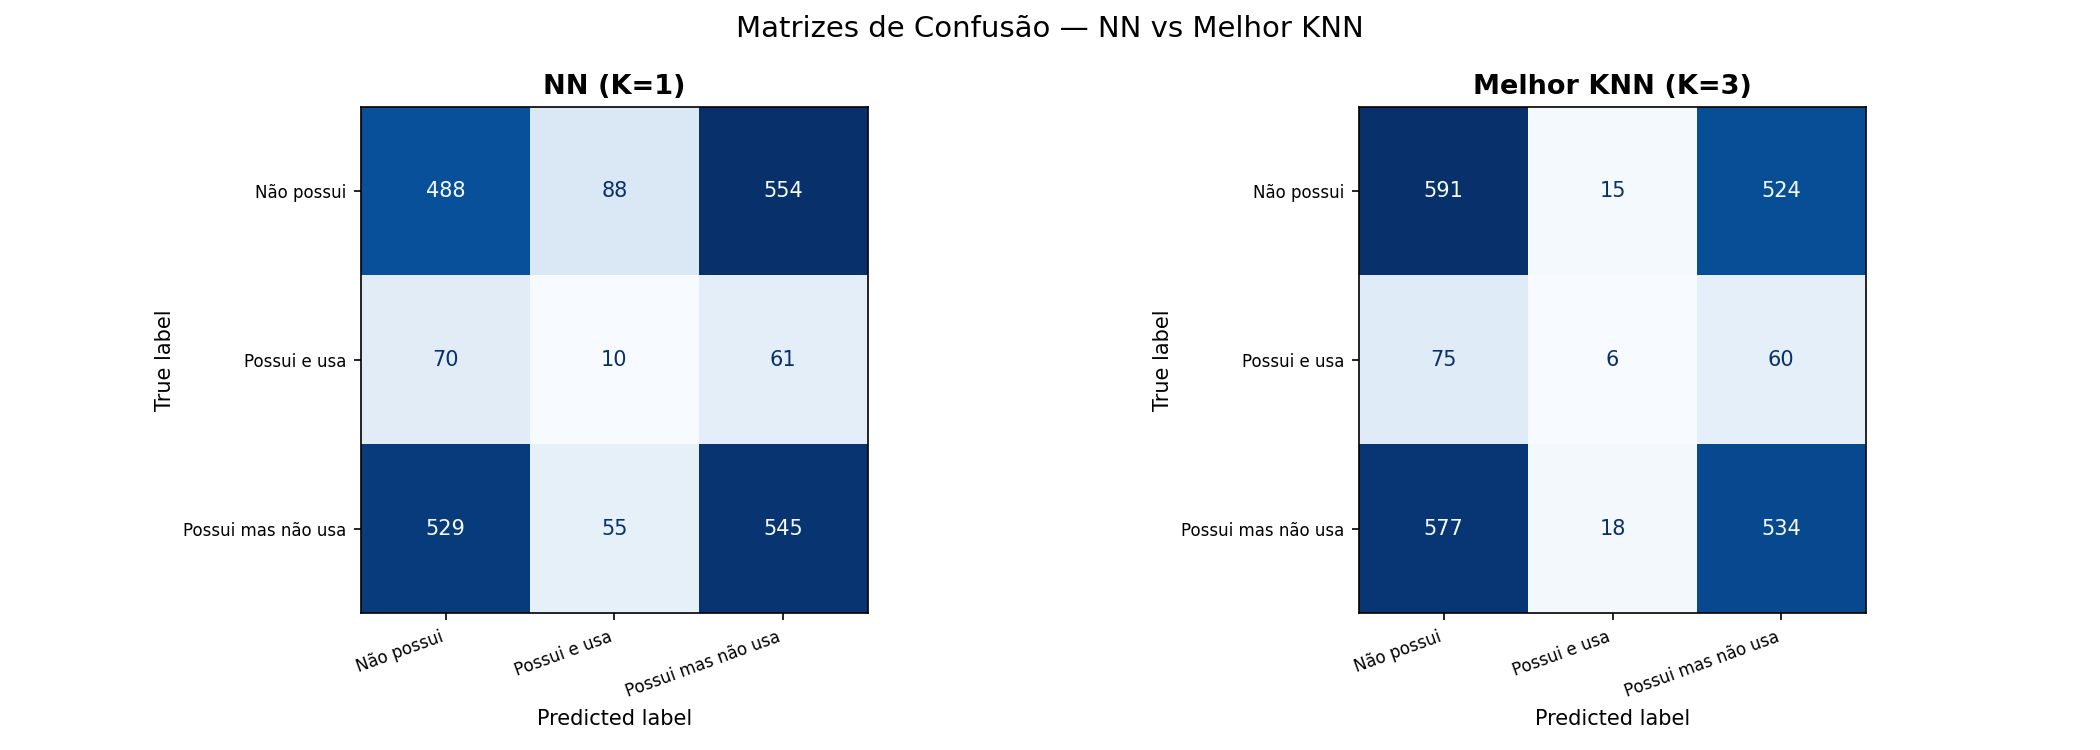
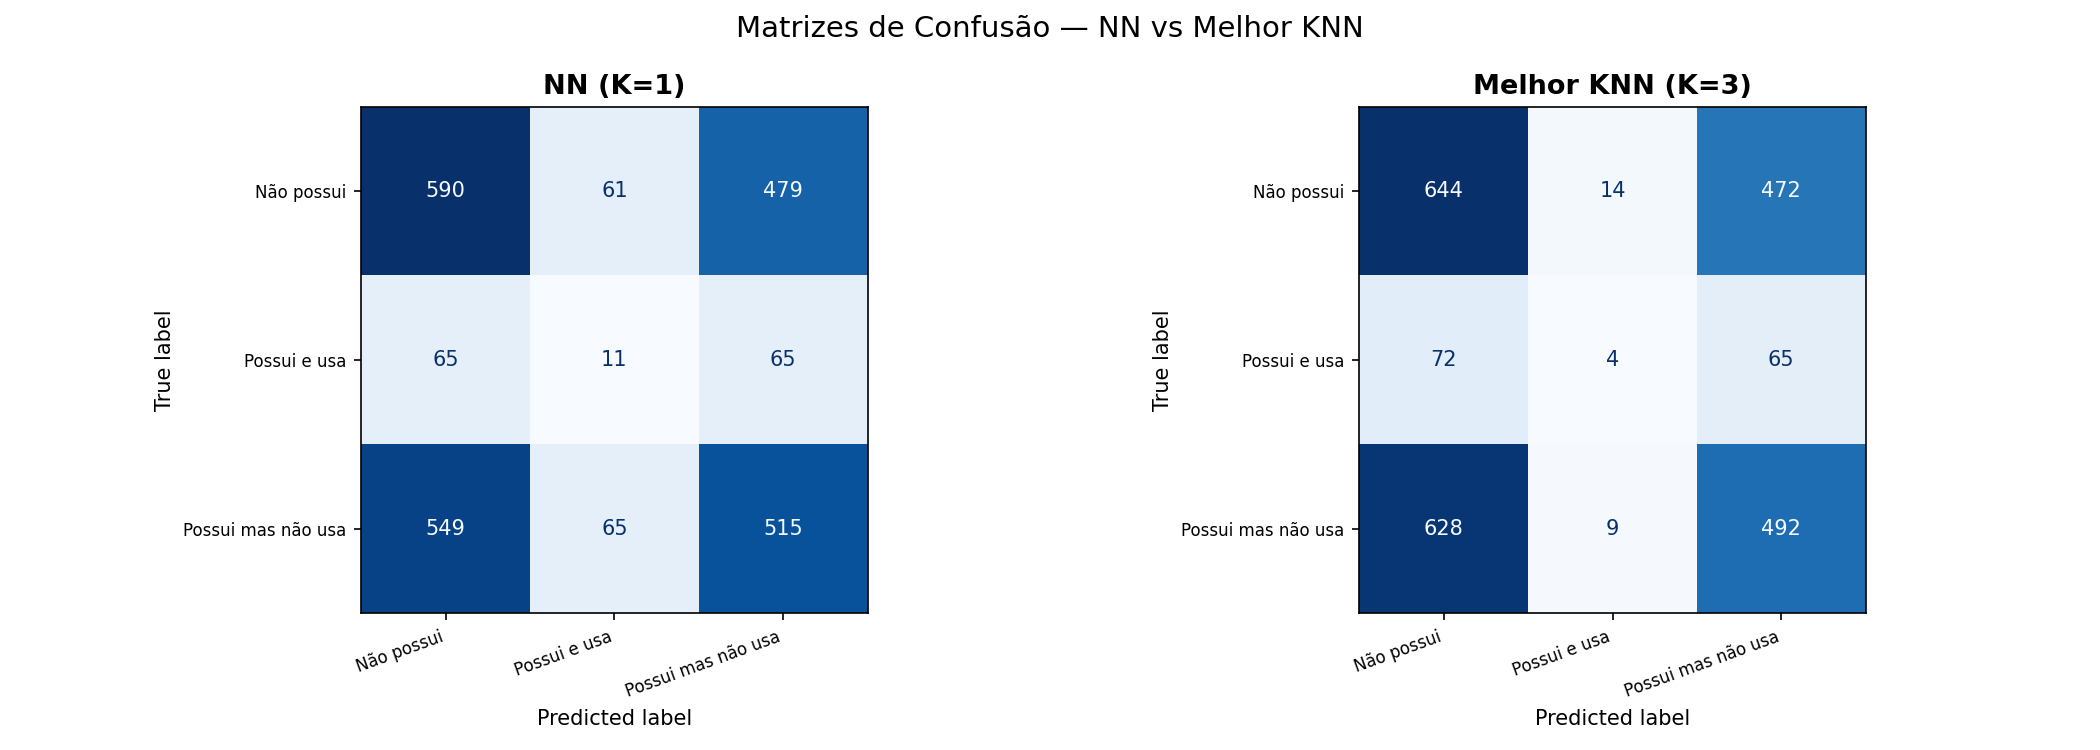
c

diff --git a/trab2_tci.py b/trab2_tci.py
@@ -5,7 +5,7 @@ from sklearn.neighbors import KNeighborsClassifier
 from sklearn.preprocessing import StandardScaler
 from plots import plot_distribuicao_target, plot_heatmap_regiao, plot_matrizes_confusao
 
-COLUNA_REGIONAL = "nome_regiao_saude"  # "nome_regiao_saude", "sigla_uf", "nome"
+COLUNA_REGIONAL = "sigla_uf"  # "nome_regiao_saude", "sigla_uf", "nome"
 FEATURES_MODELO = [COLUNA_REGIONAL, "grupo_idade", "cor_raca"]
 
 